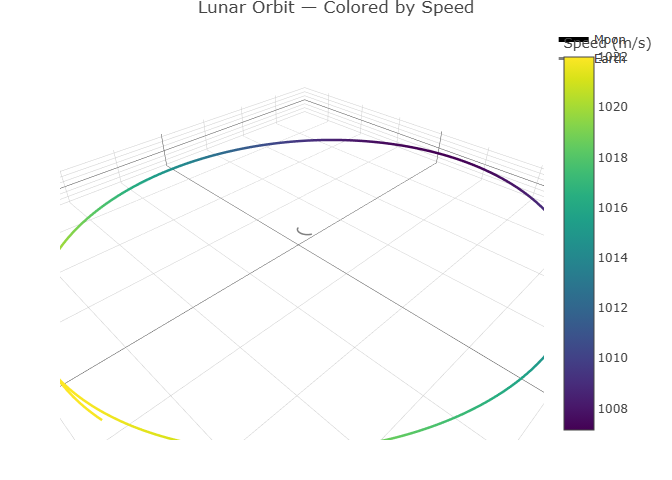
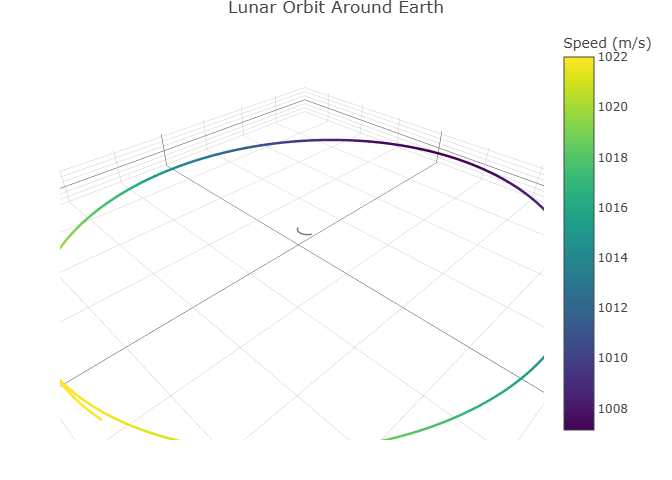
fixed 3d plot for lunar orbit

Changed region(s): [[0.2812, 0.0, 0.7188, 0.0312], [0.8125, 0.0625, 0.9375, 0.125]]

diff --git a/README.md b/README.md
@@ -755,7 +755,6 @@ and add markers at the start and end of each orbit:
                vz = speed_moon * sin(5 * pi / 180)) |>
       simulate(time_step = 3600, duration = 86400 * 28)
 
-    # Compute speed for color mapping
     sim <- sim |>
       dplyr::mutate(speed = sqrt(vx^2 + vy^2 + vz^2))
 
@@ -771,17 +770,19 @@ and add markers at the start and end of each orbit:
           showscale = TRUE,
           colorbar = list(title = "Speed (m/s)")
         ),
-        name = "Moon"
+        name = "Moon",
+        showlegend = FALSE
       ) |>
       add_trace(
         data = dplyr::filter(sim, id == "Earth"),
         x = ~x, y = ~y, z = ~z,
         type = 'scatter3d', mode = 'lines',
         line = list(width = 3, color = 'gray'),
-        name = "Earth"
+        name = "Earth",
+        showlegend = FALSE
       ) |>
       layout(
-        title = "Lunar Orbit — Colored by Speed",
+        title = "Lunar Orbit Around Earth",
         scene = list(
           xaxis = list(title = 'X (m)'),
           yaxis = list(title = 'Y (m)'),
@@ -849,4 +850,4 @@ average of the closest approach (periapsis) and the farthest point
 (apoapsis).
 
 The semi-major axis is the single most characteristic length scale of an
-elliptical orbit. It determi
+elliptical
